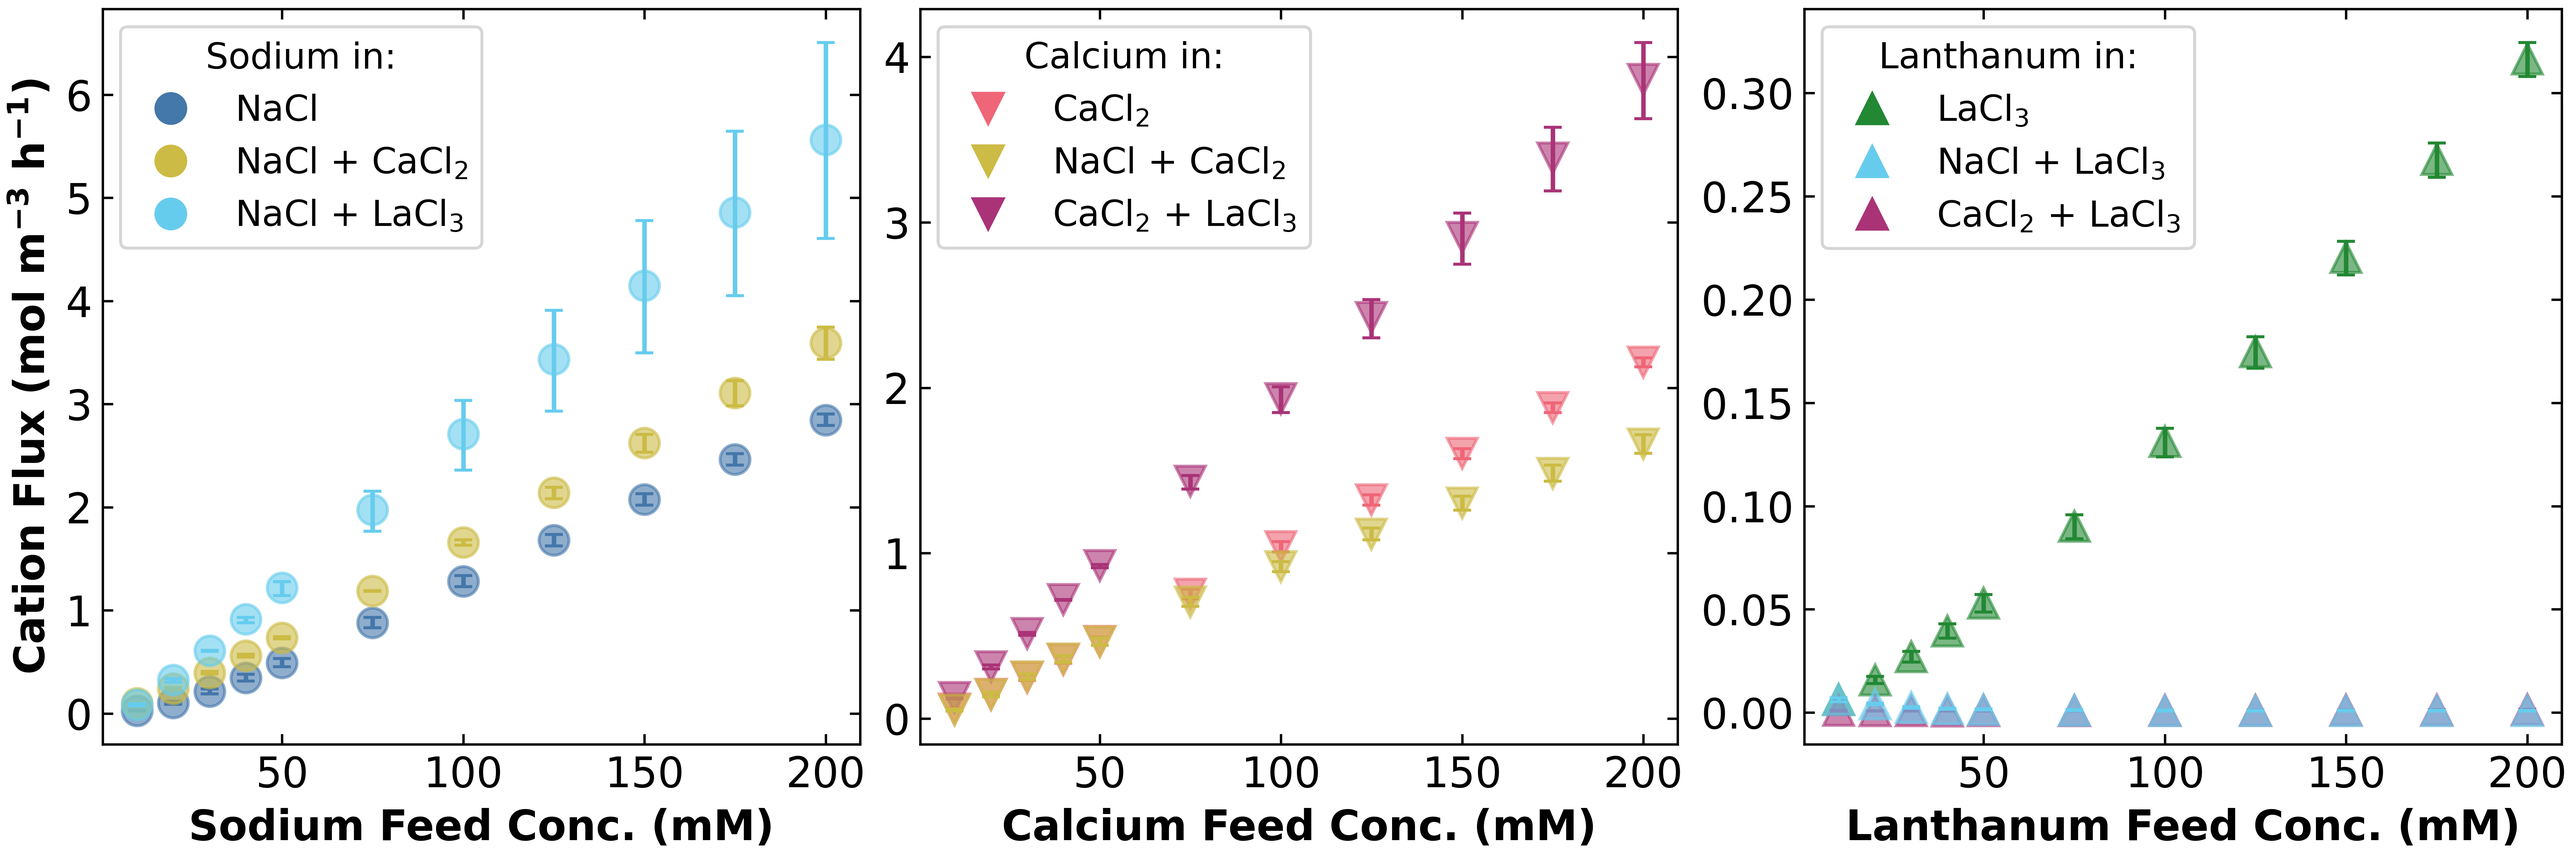
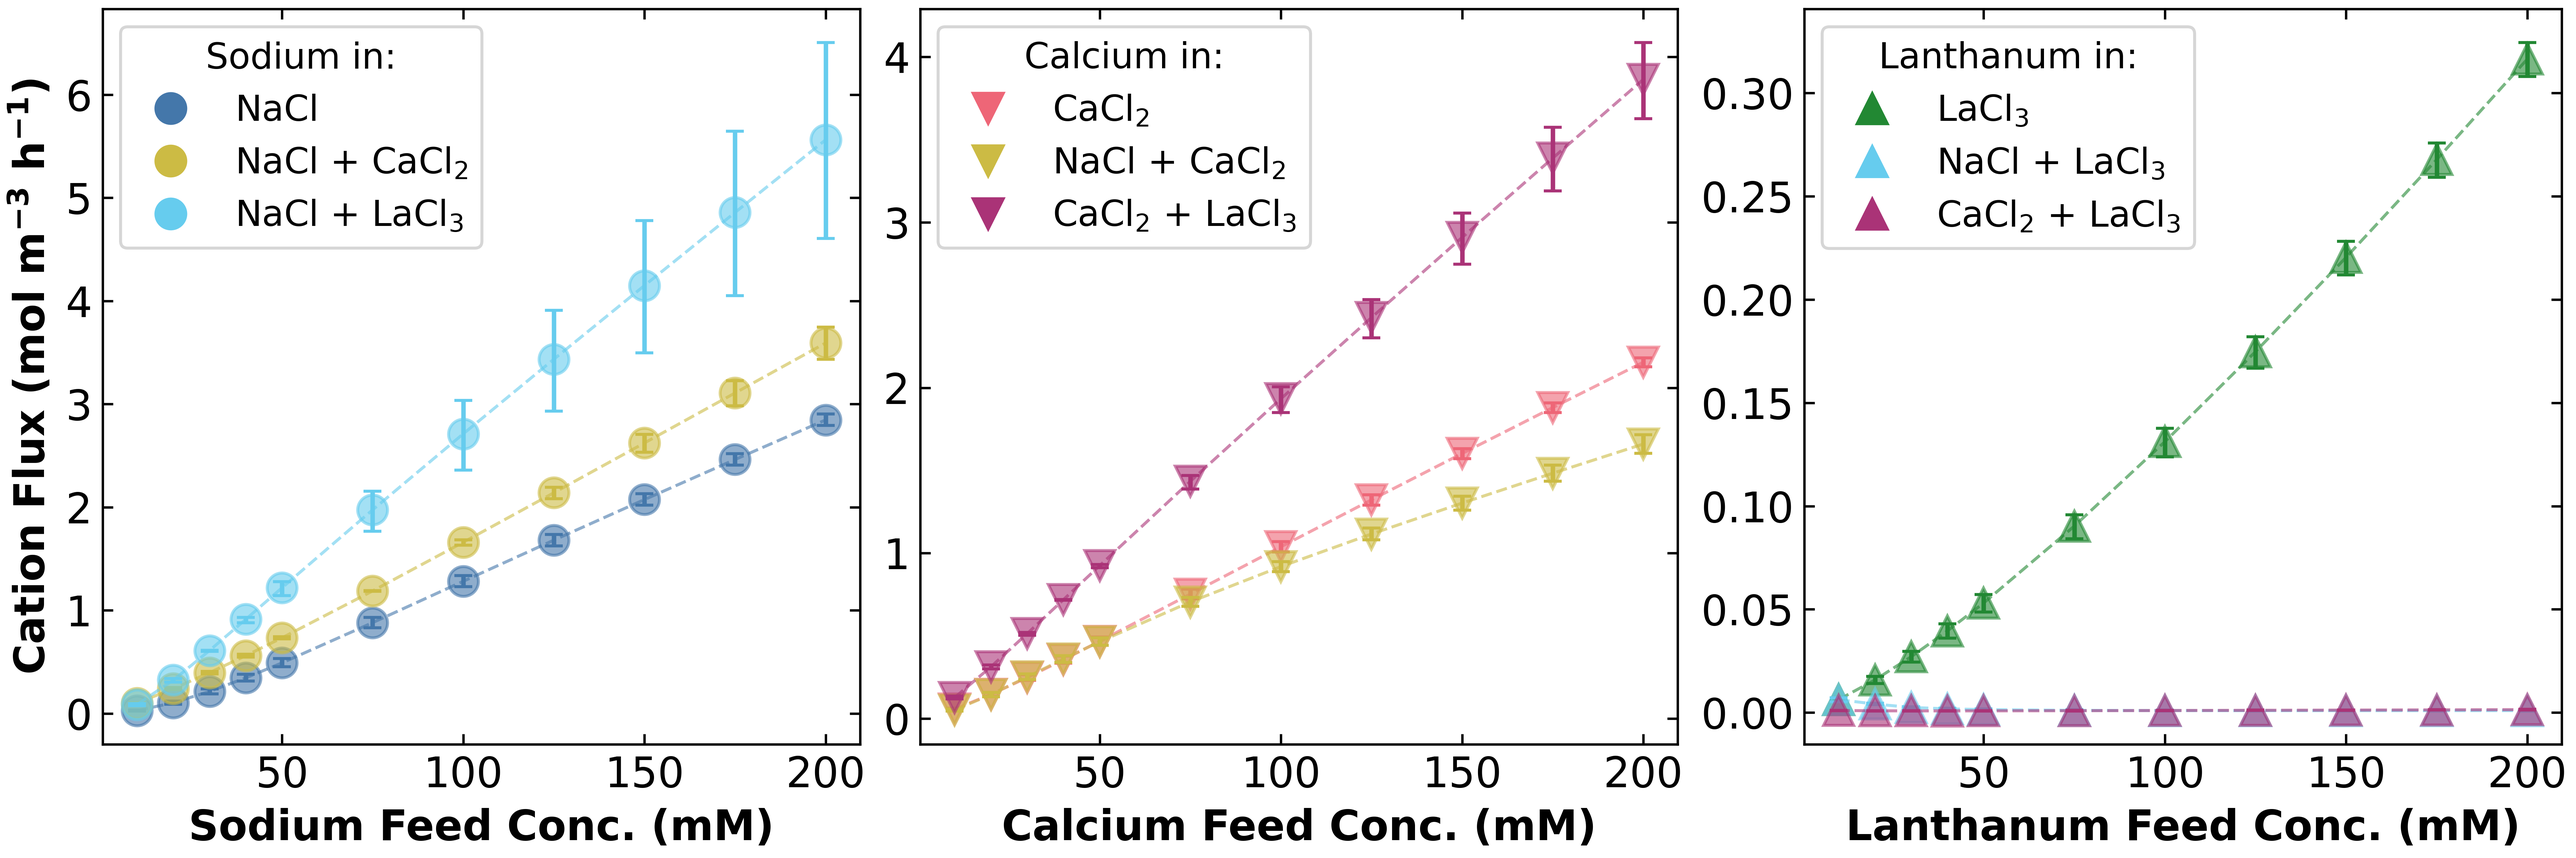
save data for flux figure separately; added guiedlines

Changed region(s): [[0.6875, 0.8125, 1.0, 0.8438], [0.4688, 0.6562, 0.5, 0.6875]]

diff --git a/src/prommis/nanofiltration/multi_component_analysis.py b/src/prommis/nanofiltration/multi_component_analysis.py
@@ -30,6 +30,7 @@ from idaes.models.unit_models import Feed, Product
 import matplotlib.pyplot as plt
 import numpy as np
 import pandas as pd
+import json
 
 from prommis.nanofiltration.multi_component_diafiltration_stream_properties import (
     MultiComponentDiafiltrationStreamParameter,
@@ -51,9 +52,11 @@ def main():
         run_two_salt=run_two_salt,
     )
 
+    # save_figure_data()
+
     flux_plots_equimolar(save_figure=True)
 
-    plot_flux_contributions(save_figure=True)
+    # plot_flux_contributions(save_figure=True)
 
 
 def build_model(
@@ -764,10 +767,7 @@ def get_model_averages_flux(model, solute):
     return info_dict
 
 
-def flux_plots_equimolar(save_figure=True):
-    markersize = 10
-    fontsize = 14
-
+def save_figure_data():
     anion_list = ["Cl"]
     inlet_flow_volume = {"feed": 12.5 + 3.75, "diafiltrate": 1e-10}
     include_boundary_layer = True
@@ -777,6 +777,129 @@ def flux_plots_equimolar(save_figure=True):
 
     default_args = (anion_list, inlet_flow_volume, include_boundary_layer)
     NFE_args = [NFE_module_length, NFE_boundary_layer_thickness, NFE_membrane_thickness]
+
+    model_folder_1 = Path("multi_component_case_studies/single_salt/CONC")
+    # 46 characters (0-45) make up folder name before model name
+    # multi_component_case_studies/single_salt/CONC/
+    model_folder_2 = Path("multi_component_case_studies/two_salt/CONC")
+    # 43 characters (0-42) make up folder name before model name
+    # multi_component_case_studies/two_salt/CONC/
+
+    case_study_list_1 = [file for file in model_folder_1.iterdir()]
+    case_study_list_1.sort()
+    case_study_list_2 = [file for file in model_folder_2.iterdir()]
+    case_study_list_2.sort()
+    case_studies = {
+        "single": case_study_list_1,
+        "two": case_study_list_2,
+    }
+
+    single_salt_data_dict = {
+        "Na": {"x": [], "y": [], "y_err": []},
+        "Ca": {"x": [], "y": [], "y_err": []},
+        "La": {"x": [], "y": [], "y_err": []},
+    }
+    two_salt_data_dict = {
+        "Na_Ca": {
+            "Na": {"x": [], "y": [], "y_err": []},
+            "Ca": {"x": [], "y": [], "y_err": []},
+        },
+        "Na_La": {
+            "Na": {"x": [], "y": [], "y_err": []},
+            "La": {"x": [], "y": [], "y_err": []},
+        },
+        "Ca_La": {
+            "Ca": {"x": [], "y": [], "y_err": []},
+            "La": {"x": [], "y": [], "y_err": []},
+        },
+    }
+
+    for type, case_study_files in case_studies.items():
+        for case_study in case_study_files:
+            if type == "single":
+                cation = str(case_study)[54:56]
+                chloride_multiplier = float(str(case_study)[58])
+                concentration = float(50)  # mM
+                cation_list = [cation]
+                inlet_concentration = {
+                    "feed": {
+                        cation: concentration,
+                        "Cl": chloride_multiplier * concentration,
+                    },
+                    "diafiltrate": {
+                        cation: 1e-10,
+                        "Cl": 1e-10,
+                    },
+                }
+
+            elif type == "two":
+                cation_1 = str(case_study)[51:53]
+                cation_2 = str(case_study)[53:55]
+                chloride_multiplier = float(str(case_study)[57])
+                concentration = float(50)  # mM
+                cation_list = [cation_1, cation_2]
+                inlet_concentration = {
+                    "feed": {
+                        cation_1: concentration,
+                        cation_2: concentration,
+                        "Cl": chloride_multiplier * concentration,
+                    },
+                    "diafiltrate": {
+                        cation_1: 1e-10,
+                        cation_2: 1e-10,
+                        "Cl": 1e-10,
+                    },
+                }
+
+                if cation_1 == "Na" and cation_2 == "Ca":
+                    salt_key = "Na_Ca"
+                elif cation_1 == "Na" and cation_2 == "La":
+                    salt_key = "Na_La"
+                elif cation_1 == "Ca" and cation_2 == "La":
+                    salt_key = "Ca_La"
+
+            model = build_model(
+                cation_list=cation_list,
+                inlet_concentration=inlet_concentration,
+                default_args=default_args,
+                NFE_args=NFE_args,
+                initialize_and_solve=False,
+            )
+            from_json(model, fname=case_study)
+
+            for solute in model.fs.membrane.cations:
+                average_variable_dict = get_model_averages(model, solute)
+
+                x_value = value(model.fs.membrane.retentate_conc_mol_comp[0, 0, solute])
+                y_data = average_variable_dict["local_flux"]["avg"]
+                y_err = average_variable_dict["local_flux"]["spread"]
+                y_err = y_err.tolist()
+
+                if type == "single":
+                    single_salt_data_dict[solute]["x"].append(x_value)
+                    single_salt_data_dict[solute]["y"].append(y_data)
+                    single_salt_data_dict[solute]["y_err"].append(y_err)
+                elif type == "two":
+                    two_salt_data_dict[salt_key][solute]["x"].append(x_value)
+                    two_salt_data_dict[salt_key][solute]["y"].append(y_data)
+                    two_salt_data_dict[salt_key][solute]["y_err"].append(y_err)
+
+    with open(
+        "figure_data/flux_versus_cation_concentration_single_salt_data.json", "w"
+    ) as file:
+        json.dump(single_salt_data_dict, file)
+    with open(
+        "figure_data/flux_versus_cation_concentration_two_salt_data.json", "w"
+    ) as file:
+        json.dump(two_salt_data_dict, file)
+
+
+def flux_plots_equimolar(save_figure=True):
+    markersize = 10
+    fontsize = 14
+    alpha = 0.6
+    linestyle = "--"
+    linewidth = 1
 
     fig1, (ax1a, ax1b, ax1c) = plt.subplots(
         1, 3, dpi=100, figsize=(12, 4), constrained_layout=True
@@ -886,150 +1009,96 @@ def flux_plots_equimolar(save_figure=True):
     for ax in fig1.axes:
         ax.tick_params(direction="in", top=True, right=True, labelsize=fontsize)
 
-    model_folder_1 = Path("multi_component_case_studies/single_salt/CONC")
-    # 46 characters (0-45) make up folder name before model name
-    # multi_component_case_studies/single_salt/CONC/
-    model_folder_2 = Path("multi_component_case_studies/two_salt/CONC")
-    # 43 characters (0-42) make up folder name before model name
-    # multi_component_case_studies/two_salt/CONC/
+    with open(
+        "figure_data/flux_versus_cation_concentration_single_salt_data.json", "r"
+    ) as file:
+        single_salt_data_dict = json.load(file)
+    with open(
+        "figure_data/flux_versus_cation_concentration_two_salt_data.json", "r"
+    ) as file:
+        two_salt_data_dict = json.load(file)
 
-    case_study_list_1 = [file for file in model_folder_1.iterdir()]
-    case_study_list_1.sort()
-    case_study_list_2 = [file for file in model_folder_2.iterdir()]
-    case_study_list_2.sort()
-    case_studies = {
-        "single": case_study_list_1,
-        "two": case_study_list_2,
+    case_study_data = {
+        "single": single_salt_data_dict,
+        "two": two_salt_data_dict,
     }
 
-    for type, case_study_files in case_studies.items():
-        for case_study in case_study_files:
-            if type == "single":
-                cation = str(case_study)[54:56]
-                chloride_multiplier = float(str(case_study)[58])
-                concentration = float(50)  # mM
-                cation_list = [cation]
-                inlet_concentration = {
-                    "feed": {
-                        cation: concentration,
-                        "Cl": chloride_multiplier * concentration,
-                    },
-                    "diafiltrate": {
-                        cation: 1e-10,
-                        "Cl": 1e-10,
-                    },
-                }
-
-            elif type == "two":
-                cation_1 = str(case_study)[51:53]
-                cation_2 = str(case_study)[53:55]
-                chloride_multiplier = float(str(case_study)[57])
-                concentration = float(50)  # mM
-                cation_list = [cation_1, cation_2]
-                inlet_concentration = {
-                    "feed": {
-                        cation_1: concentration,
-                        cation_2: concentration,
-                        "Cl": chloride_multiplier * concentration,
-                    },
-                    "diafiltrate": {
-                        cation_1: 1e-10,
-                        cation_2: 1e-10,
-                        "Cl": 1e-10,
-                    },
-                }
-
-            model = build_model(
-                cation_list=cation_list,
-                inlet_concentration=inlet_concentration,
-                default_args=default_args,
-                NFE_args=NFE_args,
-                initialize_and_solve=False,
-            )
-            from_json(model, fname=case_study)
-
-            for solute in model.fs.membrane.cations:
-                average_variable_dict = get_model_averages(model, solute)
-
-                alpha = 0.6
-
-                if solute == "Na":
+    for type, data_dict in case_study_data.items():
+        if type == "single":
+            for cation in data_dict.keys():
+                if cation == "Na":
                     marker = "o"
                     ax_flux = ax1a
-                    if type == "single":
-                        color = na_color
-                    elif type == "two":
-                        if cation_2 == "Ca":
-                            color = na_ca_color
-                        elif cation_2 == "La":
-                            color = na_la_color
-                    x_value = value(
-                        model.fs.membrane.retentate_conc_mol_comp[0, 0, solute]
-                    )
-
-                elif solute == "Ca":
+                    color = na_color
+                elif cation == "Ca":
                     marker = "v"
                     ax_flux = ax1b
-                    if type == "single":
-                        color = ca_color
-                    elif type == "two":
-                        if cation_1 == "Na":
-                            color = na_ca_color
-                        elif cation_2 == "La":
-                            color = ca_la_color
-                    x_value = value(
-                        model.fs.membrane.retentate_conc_mol_comp[0, 0, solute]
-                    )
-
-                elif solute == "La":
+                    color = ca_color
+                elif cation == "La":
                     marker = "^"
                     ax_flux = ax1c
-                    if type == "single":
-                        color = la_color
-                    elif type == "two":
-                        if cation_1 == "Na":
-                            color = na_la_color
-                        elif cation_1 == "Ca":
-                            color = ca_la_color
-                    x_value = value(
-                        model.fs.membrane.retentate_conc_mol_comp[0, 0, solute]
-                    )
+                    color = la_color
 
-                y_data = average_variable_dict["local_flux"]["avg"]
-                y_err = average_variable_dict["local_flux"]["spread"]
+                y_err = [np.array(i) for i in data_dict[cation]["y_err"]]
 
-                if isinstance(ax_flux, list):
-                    for ax in ax_flux:
-                        ax.plot(
-                            x_value[ax_flux.index(ax)],
-                            y_data,
-                            color=color,
-                            marker=marker,
-                            alpha=alpha,
-                            markersize=markersize,
-                        )
-                        ax.errorbar(
-                            x_value[ax_flux.index(ax)],
-                            y_data,
-                            yerr=y_err,
-                            ecolor=color,
-                            capsize=3,
-                        )
-                else:
+                ax_flux.plot(
+                    data_dict[cation]["x"],
+                    data_dict[cation]["y"],
+                    marker=marker,
+                    linestyle=linestyle,
+                    linewidth=linewidth,
+                    color=color,
+                    alpha=alpha,
+                    markersize=markersize,
+                )
+                ax_flux.errorbar(
+                    data_dict[cation]["x"],
+                    data_dict[cation]["y"],
+                    yerr=np.squeeze(y_err).T,
+                    ecolor=color,
+                    capsize=3,
+                    linestyle="None",
+                )
+
+        elif type == "two":
+            for salt, salt_data in data_dict.items():
+                for cation in salt_data.keys():
+                    if salt == "Na_Ca":
+                        color = na_ca_color
+                    elif salt == "Na_La":
+                        color = na_la_color
+                    elif salt == "Ca_La":
+                        color = ca_la_color
+
+                    if cation == "Na":
+                        marker = "o"
+                        ax_flux = ax1a
+                    elif cation == "Ca":
+                        marker = "v"
+                        ax_flux = ax1b
+                    elif cation == "La":
+                        marker = "^"
+                        ax_flux = ax1c
+
+                    y_err = [np.array(i) for i in salt_data[cation]["y_err"]]
+
                     ax_flux.plot(
-                        x_value,
-                        y_data,
-                        color=color,
+                        salt_data[cation]["x"],
+                        salt_data[cation]["y"],
                         marker=marker,
+                        linestyle=linestyle,
+                        linewidth=linewidth,
+                        color=color,
                         alpha=alpha,
                         markersize=markersize,
                     )
                     ax_flux.errorbar(
-                        x_value,
-                        y_data,
-                        yerr=y_err,
+                        salt_data[cation]["x"],
+                        salt_data[cation]["y"],
+                        yerr=np.squeeze(y_err).T,
                         ecolor=color,
                         capsize=3,
+                        linestyle="None",
                     )
 
     if save_figure:
